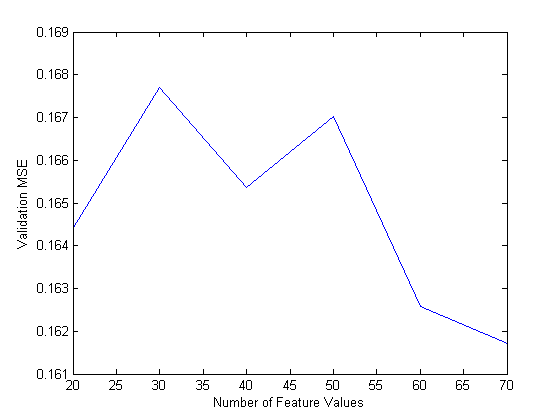
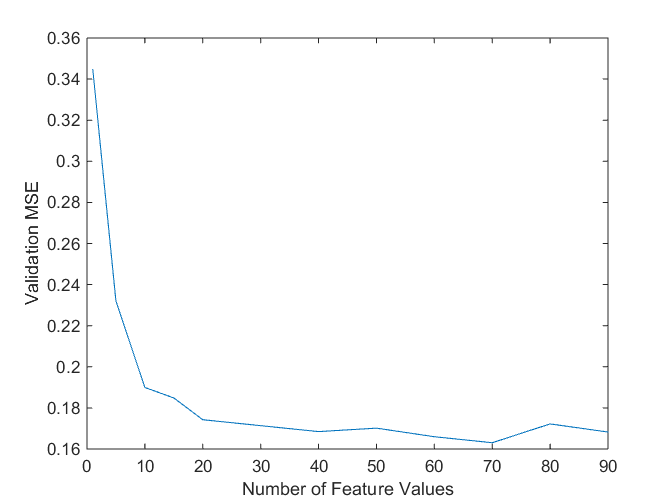
did more work for write-up

diff --git a/zach/writeUpZach.tex b/zach/writeUpZach.tex
@@ -53,7 +53,7 @@
 
 \section*{Decision Tree Methods}
 
-We wanted to compare different decision tree methods and see how they perform compared to the other methods. This involved seeing if a single strong learner or multiple weak learners would perform better for this data set. With the weak learners, we decided to see if Random Forests or Gradient Boosting achieved better results. We also wanted to see if boosting the random forests would help also.   
+We wanted to compare different decision tree methods and see how they perform compared to the other methods. This involved seeing if a single strong learner or multiple weak learners would perform better for this data set. With the weak learners, we decided to see if Random Forests or Gradient Boosting achieved better results. We also wanted to see if boosting the random forests would help also. I also made to add two features, the mean and standard deviation of the IR3 image patch.    
 
 \section*{Single Decision Tree} 
 
@@ -83,7 +83,21 @@ For Gradient Boosting, the goal is to combine together weak decision trees by bo
 
 \section*{Random Forests}
 
-For random forests, we tried making each learner weak in that it only looks at a subset of the features. We then average together the results of each learner in an effort to boost performance. As it turns out, this fit the data the best. The hyperparameters we cared about were the number of learners used as well as the number of features selected randomly. 
+For random forests, we tried making each learner weak in that it only looks at a subset of the features. We then average together the results of each learner in an effort to boost performance. As it turns out, this fit the data the best. The hyperparameters we cared about were the number of learners used as well as the number of features selected randomly. I decided to first test the number of features and see if there was a clear ideal value. I had it learn 10 learners in each case. If there were more learners, then the performance difference might not be so dramatic. There were a total of 93 features that it could learn. Initially, there was a big difference in validation MSE but after 40 or more features, adding more did not improve it much. This is likely because only around 40 of those features matter in predicting the outcome and the other features are extra. I decided to stick with 40 features for my test of the number of learners. \\
+
+\begin{figure}[h!]
+\centering
+\includegraphics[width=4 in]{numFeatValuesVersusMSE.png}
+\caption{Number of Random Features versus Validation MSE}
+\end{figure}
+
+Next I tested how many learners it takes to get a good validation MSE. As it turns out after about 60 learners, the model stops improving. The following graph shows this. Because we bootstrap the data, the training MSE shown is actually the training MSE for each individual learner. 
+
+\begin{figure}[h!]
+\centering
+\includegraphics[width=4 in]{numLearnersVersusMSE.png}
+\caption{Number of Learners versus MSE}
+\end{figure}
 
 \section*{Gradient Boosted Random Forests}
 

diff --git a/zach/init.m b/zach/init.m
@@ -60,20 +60,14 @@ makeKagglePrediction(Yhat);
 
 %%
 
-Xtr = X1tr;
-Xte = X1te;
-
 %NOTE: cross-validation did not make a difference with training and
 %       validation error
 [~,Xvalid,~,Yvalid] = splitData(Xtr,Ytr,0.8);
-
-N = 15;
-numFeats = 50;
-
 %{
-validMSEs = zeros(1,6);
-numFeatValues = [20 30 40 50 60 70];
-for i = 1:6
+N = 10;
+numFeatValues = [1 5 10 15 20 40 50 60 70 80 90];
+validMSEs = zeros(1,length(numFeatValues));
+for i = 1:length(numFeatValues)
     numFeats = numFeatValues(i);
     i
     [~,~,mseValidation] = doRandomForests(Xtr,Xvalid,Ytr,Yvalid,N,numFeats);
@@ -84,16 +78,17 @@ xlabel('Number of Feature Values');
 ylabel('Validation MSE');
 %}
 
+N=30;
+numFeats = 40;
 [~,mseTraining,mseValidation] = doRandomForests(Xtr,Xvalid,Ytr,Yvalid,N,numFeats);
 
-
+%%
 plot(mseTraining,'r-');
 hold on
 plot(mseValidation,'g--');
 xlabel('Number of Learners in Ensemble');
 ylabel('Mean Squared Error');
 legend('Training Error','Validation Error');
-title('MSE versus Number of Learners for Gradient Boosting');
 
 
 %%
